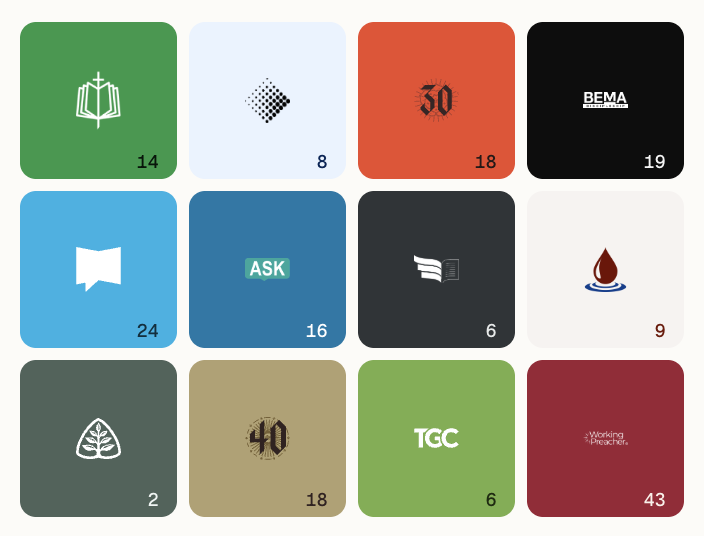
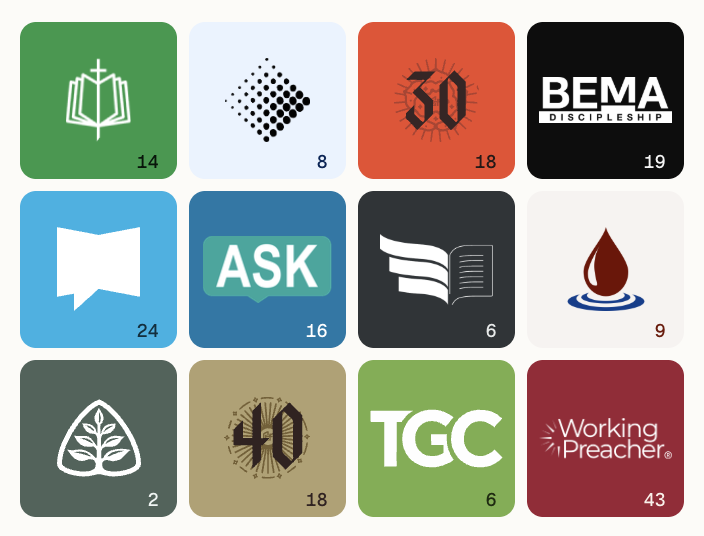
fix: the square cell was pinning every mark to 23px
A width bound stood on the shelf's symbol — `100% - 2 * 22px` — added when
the tally left the flow for the corner, so a centred mark could never grow
into the numeral. In the old 92px landscape cell that left 30px and was merely
tight. In a 79px SQUARE the content box is 67, so the same expression resolves
to TWENTY-THREE PIXELS, and it pinned every mark on the shelf to it: the
optical scale still set the height, `contain` then letterboxed the artwork
down to fit 23 of width, and eleven publishers were drawn at a size no rule in
this file had chosen.

It did not look obviously broken, which is why it needed measuring rather than
looking at — the marks were small and even, and even is what this shelf is
for. Read out of the engine: every mark 23 wide, ink coverage 10-25% of the
cell.

The collision it guarded is real but it is a CORNER, and in a square the
geometry answers it for free. The numeral sits at roughly x 53-70, y 61-75 of
a 79px cell; a vertically centred mark only reaches that band when it is
taller than 43. So the scale's upper clamp drops from 46 to 42 and the width
bound goes entirely — every mark clears the numeral by construction, and the
widest lockups get the whole cell to lie across, which is how a wordmark wants
to be drawn.

Measured again after: ink coverage 22-35%, and the four wide lockups that were
starved worst (Working Preacher 10%, TGC 11%, Naked Bible 13%) now sit with
the rest at 30-34%.

diff --git a/src/renderer/styles.css b/src/renderer/styles.css
@@ -20795,25 +20795,30 @@ button.lang-phrase-diagram-node:focus-visible,
      not in a landscape, which is why the horizontal padding below is narrower
      than the vertical: in a square every pixel of side margin comes straight
      off the height of a wide mark. */
-  --shelf-art-h: clamp(15px, calc(42px / pow(var(--resource-symbol-ratio), 0.34)), 46px);
-  /* What the tally's corner needs kept clear of a centred symbol: three
-     tabular digits at 9px mono is about 17px, plus a gap. */
-  --shelf-tally-clear: 22px;
+  --shelf-art-h: clamp(15px, calc(42px / pow(var(--resource-symbol-ratio), 0.34)), 42px);
   justify-self: center;
   align-self: center;
   /* `min()` against the cell rather than a second clamp: in the narrow shell
      the cell can be tighter than the widest symbol wants, and `contain` then
-     letterboxes the artwork down by its own ratio instead of cropping it. */
-  /* The second bound is the tally's clear space, added 2026-07-31 when the
-     numeral left the flow for the corner: a centred symbol that grew past this
-     would reach the numeral, which is the collision the row-lane existed to
-     prevent. Twice the reserve, because the symbol is centred — what it takes
-     on the right it takes on the left too. */
-  width: min(
-    100%,
-    calc(100% - 2 * var(--shelf-tally-clear)),
-    calc(var(--shelf-art-h) * var(--resource-symbol-ratio))
-  );
+     letterboxes the artwork down by its own ratio instead of cropping it.
+
+     ── THE TALLY RESERVE IS GONE, AND THE HEIGHT CAP REPLACES IT · 2026-08-02
+     A second bound stood here — `100% - 2 * 22px` — added when the numeral
+     left the flow for the corner, so a centred symbol could never grow into
+     it. In the old 92px landscape cell that left 30px of symbol and was merely
+     tight. In a 79px SQUARE the content box is 67, so the same expression
+     resolves to TWENTY-THREE PIXELS and pinned every mark on the shelf to it:
+     the optical scale still set the height, `contain` then letterboxed the
+     artwork down to fit 23 of width, and eleven publishers were drawn at a
+     size no rule in this file had chosen. Measured in the engine, not read.
+
+     The collision it guarded is real but it is a corner, and in a square the
+     geometry answers it for free. The numeral occupies roughly x 53–70, y
+     61–75 of a 79px cell. A centred mark of height H only reaches that band
+     when H > 43 — so capping the scale at 42 above keeps every mark clear of
+     it without touching the width at all, and the widest lockups get the whole
+     cell to lie across, which is how a wordmark wants to be drawn. */
+  width: min(100%, calc(var(--shelf-art-h) * var(--resource-symbol-ratio)));
   height: var(--shelf-art-h);
   /* CENTRED, where the register left-aligned. A left-aligned logo in a cell it
      does not fill is a logo pushed against a wall; centred in a cell of its own
